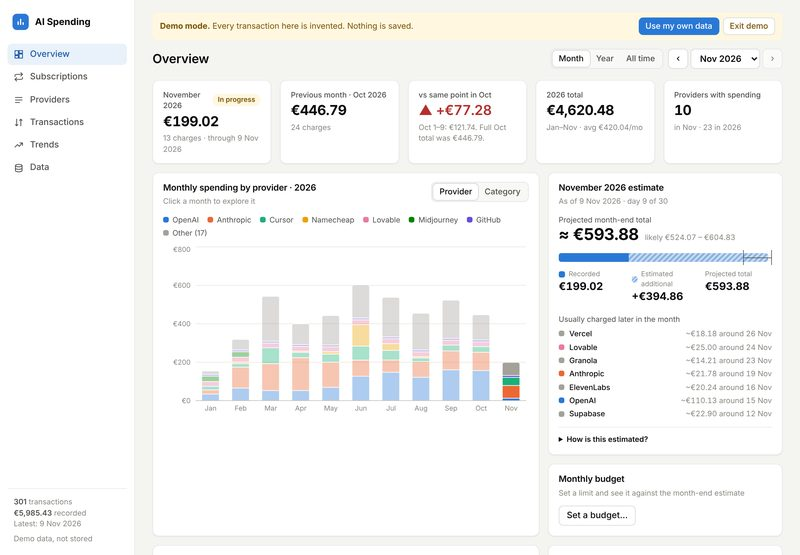
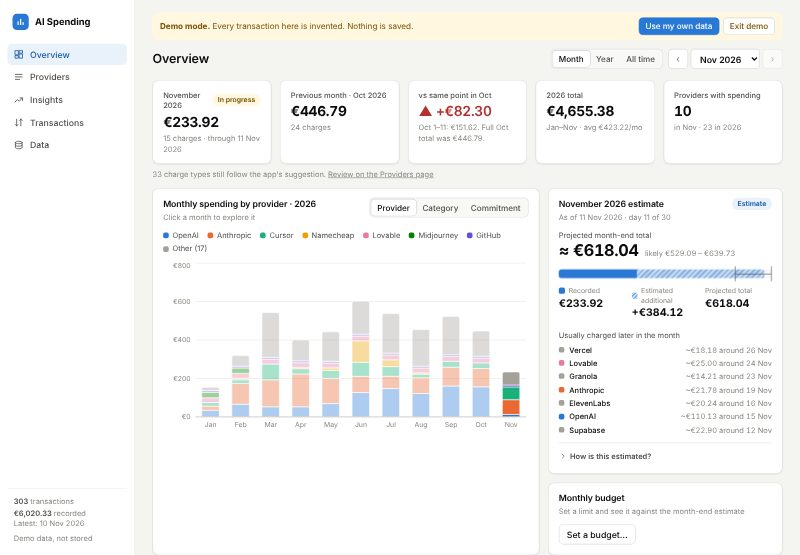
Docs: page table, screenshots and changelog for the new structure
README describes Overview, Providers, Insights, Transactions and Data,
where each insight now lives, and the facts-versus-inference principle.
Screenshots of the removed Subscriptions page and of Trends are
replaced with new ones taken from the demo data, the landing page
screenshots follow, and the changelog lists the change.

Claude-Session: https://claude.ai/code/session_01Qfp4rPPoUuYjYbxgoDgS24

diff --git a/src/content/landing.ts b/src/content/landing.ts
@@ -36,8 +36,8 @@ export const STEPS: string[] = [
 /** Screenshots served from /screenshots. Every image has alt text. */
 export const SHOTS: { file: string; alt: string; caption: string; width: number; height: number }[] = [
   { file: 'overview.jpg', alt: 'The overview page: monthly spending by provider as a stacked bar chart, with this month’s estimate.', caption: 'Overview: spending by provider and a month-end estimate', width: 1280, height: 888 },
-  { file: 'subscriptions.jpg', alt: 'The subscriptions page: monthly run-rate, active recurring charges and a calendar of the next 30 days.', caption: 'Subscriptions: run-rate and the next 30 days', width: 1280, height: 888 },
-  { file: 'insights.jpg', alt: 'Price changes, overlapping tools and stopped subscriptions.', caption: 'Price changes, overlap and stopped subscriptions', width: 1280, height: 888 },
+  { file: 'next-month.jpg', alt: 'The Next month card on the overview: monthly run-rate and a calendar of the next 30 days, marked as an estimate.', caption: 'Next month: run-rate and the next 30 days, marked as estimates', width: 1280, height: 888 },
+  { file: 'insights.jpg', alt: 'The insights page: price changes, stopped subscriptions and overlapping tools, each marked as the app’s read.', caption: 'Insights: price changes, stopped subscriptions and overlap', width: 1280, height: 888 },
 ];
 
 export const FAQ: { q: string; a: string }[] = [

diff --git a/README.md b/README.md
@@ -20,7 +20,7 @@ npm install
 npm run dev
 ```
 
-Open http://localhost:5173 for the landing page, then **Explore demo data** or **Import your own data**, or go straight to the app at http://localhost:5173/app.html (on Vercel: `/app`). Old links such as `/#/subscriptions` still work: the landing page sends them to the app. On first visit the app shows the welcome screen:
+Open http://localhost:5173 for the landing page, then **Explore demo data** or **Import your own data**, or go straight to the app at http://localhost:5173/app.html (on Vercel: `/app`). Old links such as `/#/subscriptions` and `/#/trends` still work: the landing page sends them to the app, which opens Overview and Insights. On first visit the app shows the welcome screen:
 
 - **Explore demo data** generates invented data in memory (see [Demo mode](#demo-mode)). Nothing is saved.
 - **Bank or card statements**: drop the exports you already download from your bank or card; the app picks out the AI charges (see [Statement extractor](#statement-extractor)).
@@ -43,12 +43,13 @@ npm run licenses:check  # fail on a non-permissive dependency license or an out-
 
 | Page | What you get |
 |---|---|
-| **Overview** | Spending for the selected month (default: latest recorded month), previous month, month-over-month change (like-for-like when the month is still in progress), year total, number of providers, a monthly chart stacked by provider or by category (click a bar to open that month), largest contributors, the month's charges, a current-month estimate, and an optional monthly budget shown against that estimate. Switch between Month / Year / All time in the header. |
-| **Subscriptions** | What your recurring charges commit you to: monthly run-rate and per year, a 30-day calendar of expected charges, price changes ("went from €22.49 to €109.38 in Jun"), stopped subscriptions with a check that nothing still charges, overlapping tools ("2 chat assistants · €130/month combined"), and what ending each would save. The page is derived from your provider and transaction data and is read-only: every charge belongs to a charge type (Subscription, Usage or One-time / Other), which you set on the provider's page. See [Insights](#insights). |
-| **Providers** | All providers with all-time total, spending in the selected period, share, transaction count, and first / most recent charge. Search and sort any column. Click a provider for its detail page: monthly chart, recurring-looking patterns, its **charge types** (the one place to say what each is, with a label, category and tag rule), and its full transaction history. A "To review" column shows how many charge types you have not confirmed yet. |
+| **Overview** (how much) | Spending for the selected month (default: latest recorded month), previous month, month-over-month change (like-for-like when the month is still in progress), year total, number of providers, a monthly chart stacked by provider, category or commitment type (subscription / usage / one-time; click a bar to open that month), a **Next month** card (monthly run-rate and the next 30 days of expected recurring charges, marked as estimates), largest contributors, the month's charges, a current-month estimate, and an optional monthly budget shown against that estimate. A small link says how many charge types still follow the app's suggestion and leads to Providers. Switch between Month / Year / All time in the header. |
+| **Providers** (who) | All providers with all-time total, spending in the selected period, a **trend arrow** (the last 3 complete months against the 3 before), share, transaction count, and first / most recent charge. Search, sort any column, and filter by category and commitment type. Click a provider for its detail page: monthly chart, its **subscriptions** (what the app reads as recurring there, each row opening to schedule, next charge, price history, overlap, type status and the raw descriptor, plus stopped ones and whether anything still charges), its **charge types** (the one place to say what each is, with a label, category and tag rule), and its full transaction history. A "To review" column shows how many charge types you have not confirmed yet. |
 | **Transactions** | Searchable, sortable table with original merchant descriptors and amounts. Filter by provider and date range (or "Use selected period"). Filters live in the URL, so provider pages and the overview link straight into a filtered view. Click a row to jump to its provider. Each charge can carry a tag (Personal, Business, a client), singly or for everything shown at once, and a charge imported by mistake can be deleted (with a confirmation). The type of a charge is shown but not changed here: it links to the provider page. |
-| **Trends** | Monthly spending with a 3-month average, year-over-year by calendar month, yearly totals with like-for-like comparison, biggest increases and decreases by provider (last 3 months vs the 3 before, or year to date vs last year), provider concentration (top-1 / top-3 share, providers making up 80%), recurring charges against usage and one-off charges, and recurring-looking patterns. |
+| **Insights** | What the data says, in four groups. **Patterns**: monthly spending with a 3-month average, subscription, usage and one-time over time ("more tools or more usage?"), and recurring-looking patterns. **Shifts**: price changes ("went from €22.49 to €109.38 in Jun") and stopped subscriptions with a check that nothing still charges. **Suggestions**: overlapping tools ("2 chat assistants · €130/month combined") and what ending each would save. **Comparisons**: year-over-year by calendar month, yearly totals with like-for-like comparison, biggest increases and decreases by provider (last 3 months vs the 3 before, or year to date vs last year), and provider concentration. Anything the app worked out is marked **App's read**, with the reasoning behind a "How are these found?" toggle. See [Insights](#insights). |
 | **Data** | Import more CSVs (with a review step), export all transactions as CSV (budgets, corrections, labels, categories and tag rules are not in the file), export one quarter (optionally one tag) for expense claims, clear local data (requires typing `DELETE`), import history, and the duplicate policy in plain language. |
+
+**The ledger is fact, everything else is inference.** Amounts, dates and providers are shown plainly. Anything the app worked out (a subscription, a next charge, a stopped one, an estimate, a charge's type) is marked as the app's read or an estimate, and the reasoning is one click away.
 
 Works on desktop and mobile, in light and dark mode. Provider colours are assigned once by all-time spend and stay the same across every chart; the 7 largest providers get their own colour and the rest share a grey "Other".
 
@@ -158,19 +159,19 @@ The app guesses, and you confirm. In order, a charge is:
 
 **Reviewing charge types.** A provider's page lists its charge types with the number of charges, the total, the last charge and what the app suggests. Choose Subscription · monthly, Subscription · yearly, Usage or One-time / Other: the setting applies to every charge of that type, past and future (a file imported later is matched the same way). A charge type you have not set is marked **To review** and shows the app's suggestion, and why on hover; **Confirm** accepts it, **Confirm all** does the whole provider. The Providers page counts what is still to review, and the Subscriptions page says so too. Confirming a monthly Subscription never disagrees with what the app already counted. Detection runs once, on everything that could be a monthly subscription (charge types you confirmed and ones you have not touched, together), so confirming only some of a chain's charge types cannot cut it in two, two plans that share a charge type are both counted, and one subscription whose description alternates between two charge types is counted once. A charge detection could not place joins a pattern that has the same charge type and keeps its billing day: it revives a *stopped* one at any price (a subscription that returned after a long gap), and follows an active one only as its next monthly renewal at a plausible amount (within 60% of the last one, so a price change or discount passes and a stray €3 charge does not), which keeps the dates and amount moving on after a revival. A charge in the same month near an active pattern's day is noise. Matching is by best fit across all the leftover charges of all confirmed types at once, never in date order. In order of weight: a reference the pattern has already shown (a changed or missing reference counts for nothing, neither for nor against), then an amount within the plausible range, then the closest billing day, then the closest amount. A pattern a plan switch already continued is revived only by a charge the plan that replaced it cannot take as its own next renewal and that is closer to the old billing day, and the two are then no longer counted as a switch. A stopped pattern that a later pattern of the same charge type picked up at the same price (within 2%) is never revived: a billing day that drifts, or a missed month, looks exactly like that, and automatic detection counts the pair once, so Confirm does too (the cost: a twin schedule at the identical price that starts after the first stopped cannot be told apart from it). One case cannot be told apart: a charge a few days from a schedule's billing day, at a plausible amount, in the following month looks like a discounted renewal, so if it is really another schedule's charge Confirm will show the lower amount. What is left of a charge type that no active pattern covers is one subscription counted from its latest charge. A yearly Subscription is always one per charge type, because a single renewal a year cannot be detected. A test generates thousands of ledgers (partial confirms, schedules a few days apart, missed months, returns with and without their reference, stray charges, refunds, alternating descriptions) to check that confirming never splits, drops or swaps a schedule already counted and keeps its latest charge a plausible renewal. Settings are stored in this browser (removed by **Clear local data**; in demo mode kept in memory only) and never change a charge or a total. Settings saved by earlier versions under a raw description still match, and "subscription" becomes Subscription · monthly, "ignore" becomes One-time / Other.
 
-**Where things are changed.** The provider page changes how charges are interpreted: type, label, category and tag rule. The Transactions page changes nothing about interpretation: it only holds the facts and notes on a single charge (tags, and deleting a charge). The Subscriptions page is derived and read-only. A **label** such as "Claude Pro" is shown instead of the description (which stays on hover); a **category** set on a provider is used by charts, budgets and overlap instead of the built-in mapping.
+**Where things are changed.** The provider page changes how charges are interpreted: type, label, category and tag rule. The Transactions page changes nothing about interpretation: it only holds the facts and notes on a single charge (tags, and deleting a charge). Overview and Insights are derived and read-only. A **label** such as "Claude Pro" is shown instead of the description (which stays on hover); a **category** set on a provider is used by charts, budgets and overlap instead of the built-in mapping.
 
 ## Insights
 
 A charge only has a merchant, provider, amount and date: no plan name, no usage figure. So every insight is derived from the pattern of charges and worded as an observation, never as a fact about a plan. They all build on the [recurring-looking patterns](#recurring-looking-patterns) above (monthly, similar day and amount, 3+ months in a row) and on the [charge types](#charge-types) you set, which is the only way a yearly subscription gets counted.
 
-- **Run-rate.** The sum of the latest charge of each subscription that is still active, per month. A yearly subscription counts as a twelfth. The latest charge is used, not an average, because it is what you are committed to now; a service whose single charge mixes a plan and usage (Vercel, for example) will therefore move with its overage.
-- **Next 30 days.** Each active pattern lands on its usual day. Not shown when the newest recorded charge is more than 45 days old (it would be guesswork), the same rule as the month-end estimate.
+- **Run-rate.** (Overview, Next month.) The sum of the latest charge of each subscription that is still active, per month. A yearly subscription counts as a twelfth. The latest charge is used, not an average, because it is what you are committed to now; a service whose single charge mixes a plan and usage (Vercel, for example) will therefore move with its overage.
+- **Next 30 days.** (Overview, Next month.) Each active pattern lands on its usual day. Not shown when the newest recorded charge is more than 45 days old (it would be guesswork), the same rule as the month-end estimate.
 - **Plan switches.** A new charge on the same charge type in the month after a monthly pattern ended (or the one after), landing at or near the day the old one was next expected, is counted straight away as the same subscription at the new price, marked as seen once or twice, instead of waiting for three charges. The old pattern shows as replaced, not stopped. A lone charge that nothing followed stays a one-off. Descriptors whose charges mostly do not line up (credit top-ups that match for three months by chance) are not read as a subscription at all.
-- **Price changes.** Two cases: one pattern ends and another starts at a different amount within a month (a plan switch, "likely a plan change" at 25%+), or the amount inside one pattern moves by 10% or more and stays there. Small month-to-month wobble (for instance a USD price converted to EUR) and a single odd charge that goes straight back are ignored.
-- **Stopped.** Patterns that ran and are no longer appearing, unless a newer pattern at the same provider replaced them (that is a plan change). Each is checked for later charges from the same merchant: none means the cancellation looks clean; some are listed ("Still charging"), which often means the stream was usage top-ups rather than a subscription.
-- **Overlap.** Two or more active recurring charges from different providers in the same category: chat assistants, coding tools, media tools, writing and meeting tools. Hosting and domains are normally plural, so they are not flagged.
-- **Subscription, usage and one-time.** Every charge has one of three types, and Trends shows all three over time and answers "more tools or more usage?" by comparing the last 3 complete months with the 3 before. A tool started in the last two months counts as one-time or usage until it has appeared monthly three months in a row.
+- **Price changes.** (Insights, Shifts; also on the provider page.) Two cases: one pattern ends and another starts at a different amount within a month (a plan switch, "likely a plan change" at 25%+), or the amount inside one pattern moves by 10% or more and stays there. Small month-to-month wobble (for instance a USD price converted to EUR) and a single odd charge that goes straight back are ignored.
+- **Stopped.** (Insights, Shifts; also on the provider page.) Patterns that ran and are no longer appearing, unless a newer pattern at the same provider replaced them (that is a plan change). Each is checked for later charges from the same merchant: none means the cancellation looks clean; some are listed ("Still charging"), which often means the stream was usage top-ups rather than a subscription.
+- **Overlap.** (Insights, Suggestions.) Two or more active recurring charges from different providers in the same category: chat assistants, coding tools, media tools, writing and meeting tools. Hosting and domains are normally plural, so they are not flagged.
+- **Subscription, usage and one-time.** Every charge has one of three types, and Insights shows all three over time and answers "more tools or more usage?" by comparing the last 3 complete months with the 3 before. A tool started in the last two months counts as one-time or usage until it has appeared monthly three months in a row.
 - **Categories.** From the provider (`src/lib/categories.ts`): chat assistants, coding and app builders, API and inference, image/video/audio, writing and meetings, hosting and infra, domains, other. For providers that sell both a chat plan and an API (Anthropic, OpenAI, ...) a recurring charge is the plan and anything else is API usage, unless the charge has a Type. A test checks that every vendor in the extractor catalog has a category. Overview can group its monthly chart by category.
 - **Budgets.** A monthly budget in total and/or per category, shown against what is spent so far and the month-end estimate ("On track to exceed by €40", "Over budget by €20"). A category estimate uses the same method as the total, applied to that category's charges. Saved in this browser (IndexedDB), not exported, and removed by **Clear local data**.
 - **Tags.** One optional label per charge. Edit it in the Transactions table, or tag everything currently shown (existing different tags are only replaced after a confirmation). **Data → Export a quarter** downloads one quarter, optionally one tag, as a CSV with a `Tag` column that can be re-imported. **Tag rules:** on a provider's page, "Tag new charges" sets a tag that charges from that provider get when they are imported without one (a tag in the file always wins, and charges already stored are not changed; use the bulk tag for those). The import message says how many charges a rule tagged, and each rule is listed in **Your corrections** with a **Remove rule** button. The ledger has no VAT figures, so amounts are as charged and VAT is not split out.
@@ -259,14 +260,14 @@ Versions follow Semantic Versioning. Changes are listed in [CHANGELOG.md](CHANGE
 | | |
 |---|---|
 | ![Welcome](docs/screenshots/00-welcome.jpg) Welcome screen | ![Year](docs/screenshots/02-overview-year.jpg) Overview, year view |
-| ![Providers](docs/screenshots/03-providers.jpg) Providers | ![Provider](docs/screenshots/04-provider-detail.jpg) Provider detail |
-| ![Transactions](docs/screenshots/05-transactions-filtered.jpg) Filtered transactions | ![Trends](docs/screenshots/06-trends.jpg) Trends |
-| ![Changes](docs/screenshots/07-trends-changes-recurring.jpg) Changes, concentration, recurring | ![Import review](docs/screenshots/08-import-review-errors.jpg) Import review with errors |
+| ![Providers](docs/screenshots/03-providers.jpg) Providers: trend and filters | ![Provider](docs/screenshots/04-provider-detail.jpg) Provider detail: subscriptions and charge types |
+| ![Transactions](docs/screenshots/05-transactions-filtered.jpg) Filtered transactions | ![Insights](docs/screenshots/06-insights.jpg) Insights: patterns |
+| ![Comparisons](docs/screenshots/07-insights-comparisons.jpg) Insights: comparisons | ![Import review](docs/screenshots/08-import-review-errors.jpg) Import review with errors |
 | ![Data](docs/screenshots/09-data.jpg) Data management | ![Dark](docs/screenshots/13-overview-dark.jpg) Dark mode |
 | ![Mobile](docs/screenshots/10-mobile-overview.jpg) Mobile overview | ![Mobile forecast](docs/screenshots/11-mobile-forecast.jpg) Mobile estimate |
-| ![Mobile transactions](docs/screenshots/12-mobile-transactions.jpg) Mobile transactions | ![Subscriptions](docs/screenshots/15-subscriptions.jpg) Subscriptions: run-rate and calendar (read-only) |
-| ![Price changes, overlap and stopped](docs/screenshots/16-subscriptions-insights.jpg) Price changes, overlap, stopped | ![Charge types](docs/screenshots/14-provider-charge-types.jpg) Provider charge types: type, label, category, to review |
-| ![Types](docs/screenshots/17-trends-types.jpg) Trends: subscription, usage and one-time | ![Budget](docs/screenshots/18-budget.jpg) Monthly budget against the estimate |
+| ![Mobile transactions](docs/screenshots/12-mobile-transactions.jpg) Mobile transactions | ![Next month](docs/screenshots/15-overview-next-month.jpg) Overview: next month, marked as an estimate |
+| ![Shifts and suggestions](docs/screenshots/16-insights-shifts-suggestions.jpg) Insights: price changes, stopped, overlap | ![Charge types](docs/screenshots/14-provider-charge-types.jpg) Provider charge types: type, label, category, to review |
+| ![Types](docs/screenshots/17-insights-types.jpg) Insights: subscription, usage and one-time | ![Budget](docs/screenshots/18-budget.jpg) Monthly budget against the estimate |
 | ![Quarter export](docs/screenshots/19-quarter-export.jpg) Export a quarter | |
 
 All screenshots show the synthetic demo data.
@@ -300,7 +301,7 @@ src/
     *.test.ts       Vitest suites
     __fixtures__/   synthetic test ledger
   components/     charts, tables, import panel, shared UI
-  pages/          Overview, Providers, ProviderDetail, Transactions, Trends, DataPage
+  pages/          Overview, Providers, ProviderDetail, Insights, Transactions, DataPage
   store.tsx       loads data from IndexedDB, shared state
   router.ts       tiny hash router
   lib/demoData.ts   synthetic demo generator (runs in the browser and in the CLI)

diff --git a/CHANGELOG.md b/CHANGELOG.md
@@ -4,6 +4,14 @@ All notable changes to this project are listed here. The format follows [Keep a 
 
 ## [Unreleased]
 
+### Changed
+- Five pages, organised by question: Overview (how much), Providers (who), Insights (what it says), Transactions, Data. The ledger is shown plainly; anything the app worked out is marked **App's read** or **Estimate**, with the reasoning one click away.
+- The Subscriptions page is gone. Its run-rate and next-30-days list are now the **Next month** card on Overview, per-provider subscription details are on the provider page, and price changes, stopped, overlap and savings are in Insights. `#/subscriptions` opens Overview.
+- Trends is now **Insights**, grouped into Patterns, Shifts, Suggestions and Comparisons. `#/trends` opens Insights.
+- Overview's monthly chart can be grouped by commitment type (subscription, usage, one-time).
+- Providers shows a trend arrow per provider (last 3 complete months against the 3 before) and can be filtered by category and commitment type.
+- The "charge types still to review" banner is replaced by a single link on Overview.
+
 ## [0.1.0] - 2026-11-11
 
 First public release. Versions before 1.0.0 may still change how the app behaves or what it stores; the project is usable, but not yet declared stable.
